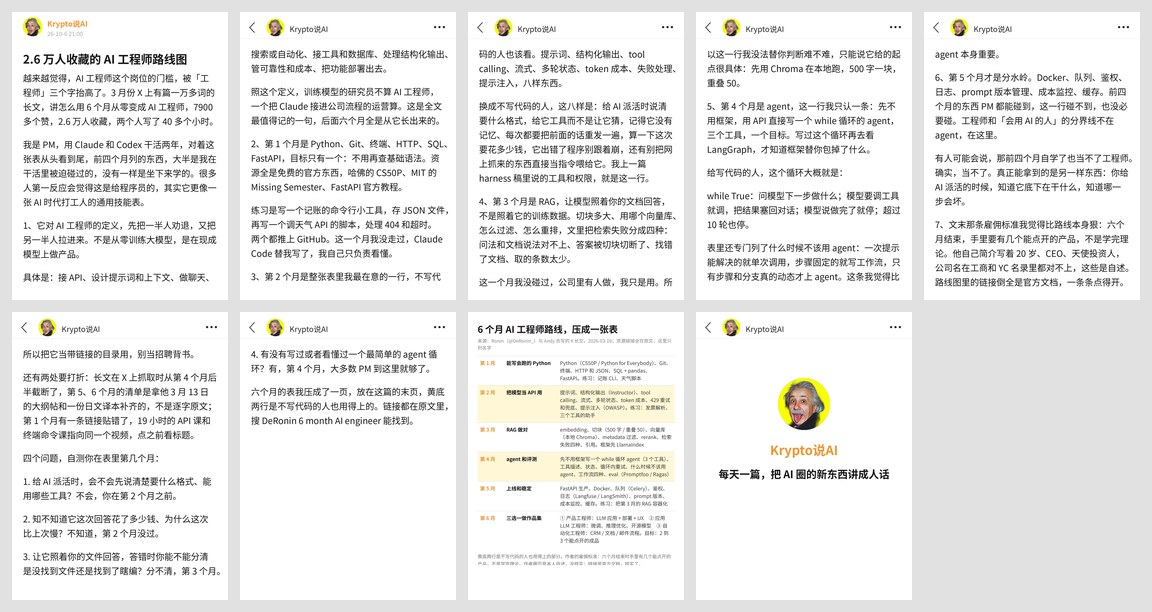
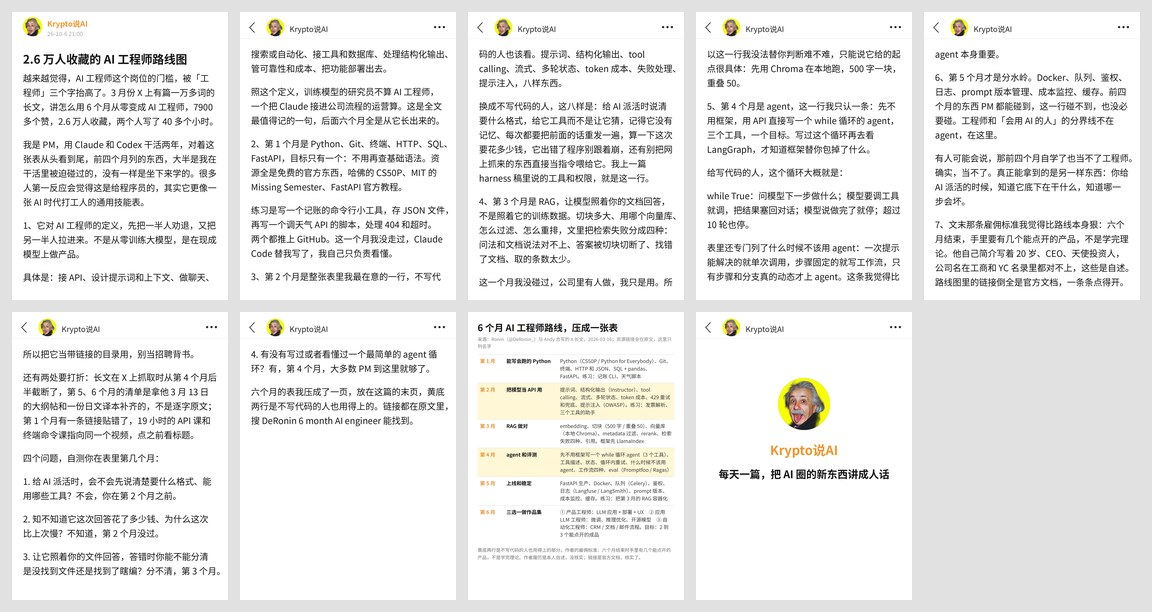
路线图稿：总结表脚注收进页内
Claude-Session: https://claude.ai/code/session_014rxZDSRh87UTnpS8unQUqK

Changed region(s): [[0.4062, 0.5278, 0.5938, 0.9314]]

diff --git a/发布/2026-10-04_ai-engineer-roadmap/meme版/编辑用/summary.html b/发布/2026-10-04_ai-engineer-roadmap/meme版/编辑用/summary.html
@@ -1,10 +1,10 @@
 <!doctype html><html><head><meta charset="utf-8"><style>
 body{margin:0;width:540px;height:720px;background:#fff;font-family:-apple-system,"PingFang SC","Noto Sans CJK SC",sans-serif;color:#171717}
-.wrap{padding:26px 24px}
+.wrap{padding:22px 24px}
 h1{font-size:23px;margin:0 0 4px;font-weight:700}
 .sub{font-size:11.5px;color:#888;margin-bottom:12px;line-height:1.5}
 table{border-collapse:collapse;width:100%;font-size:12.6px}
-td{padding:8px 6px;border-top:1px solid #e6e6e6;vertical-align:top;line-height:1.5}
+td{padding:7px 6px;border-top:1px solid #e6e6e6;vertical-align:top;line-height:1.5}
 td.m{width:54px;font-weight:700;color:#e8963a;white-space:nowrap}
 td.g{width:122px;font-weight:600}
 td.r{color:#444}
